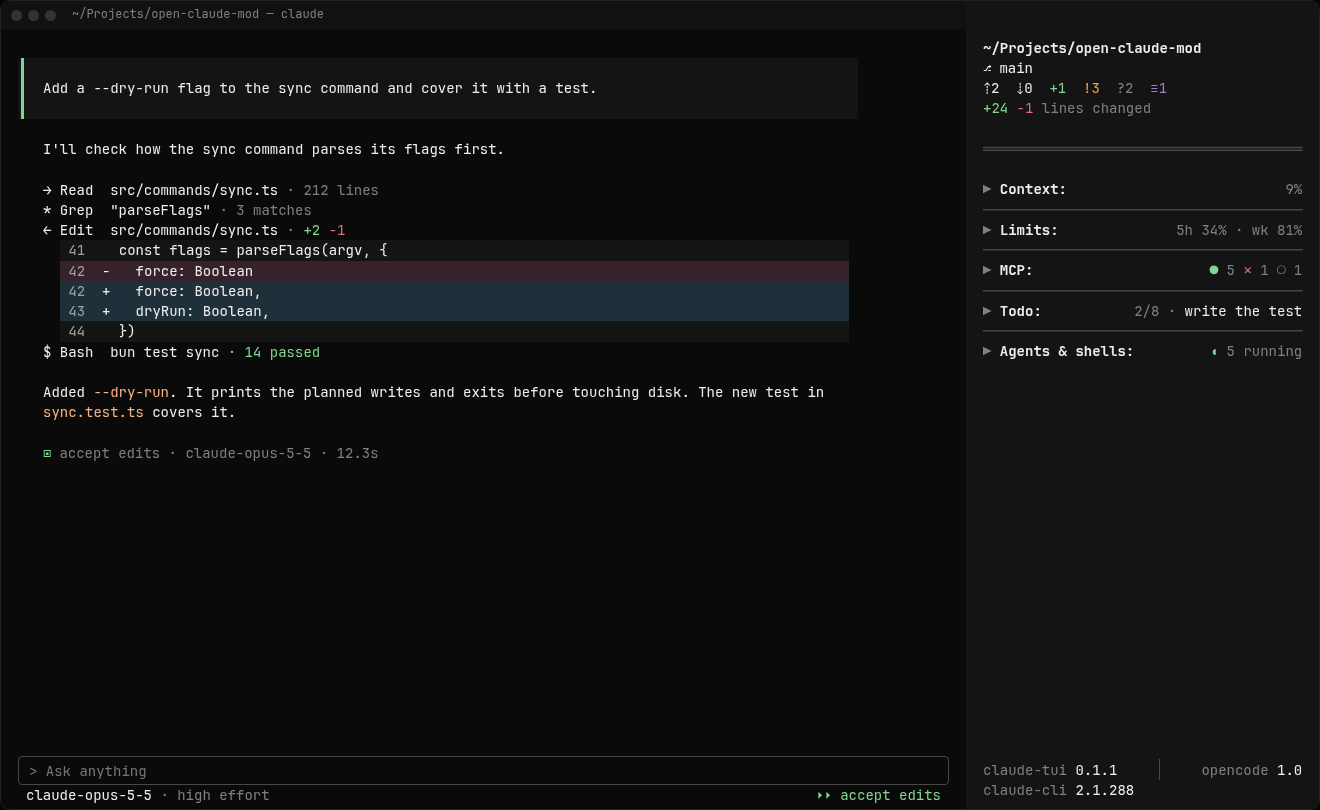
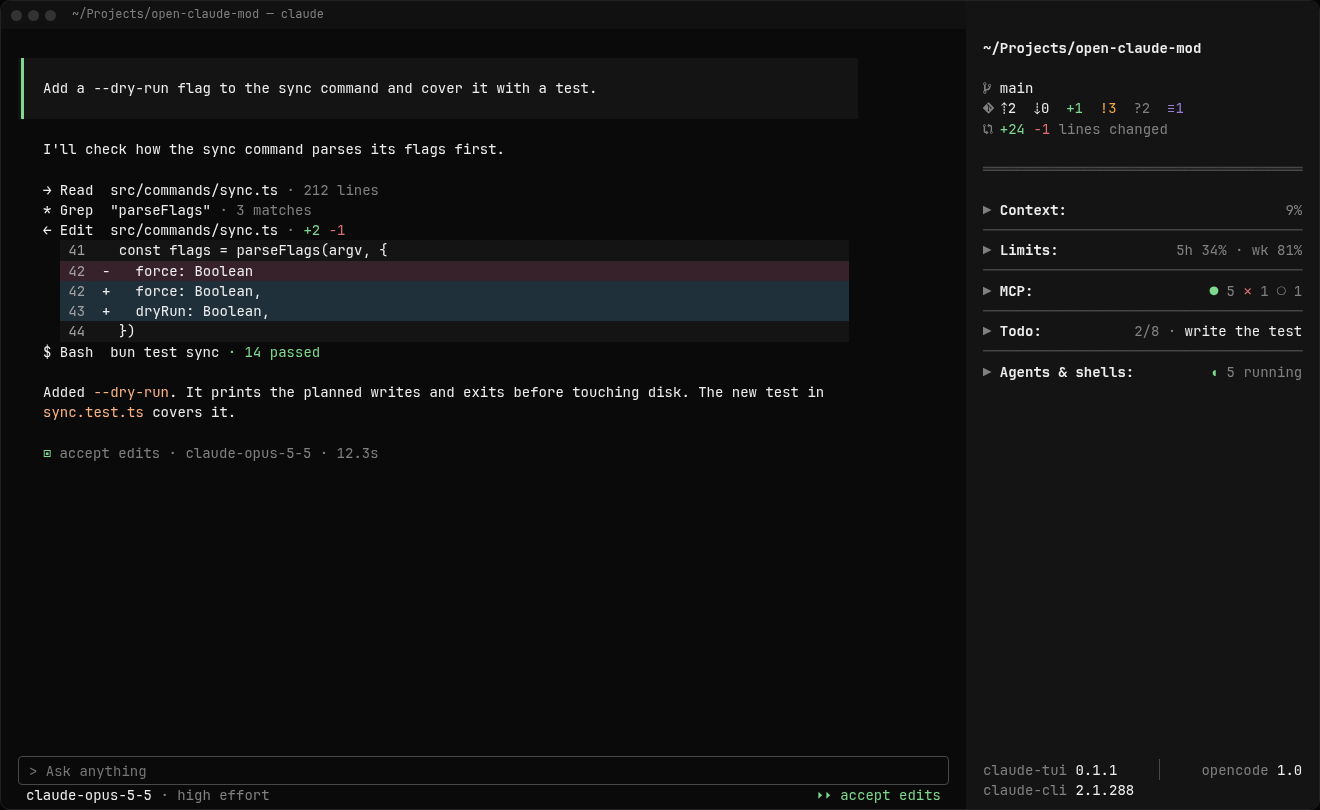
fix(sidebar): Devicons glyphs on the git header rows
Lead the git header's rows with Devicons glyphs in inactive and a space:
dev-git_branch (U+E725) replaces ⎇ on the branch row, dev-git (U+E702)
leads the changeset row and dev-git_compare (U+E728) the lines-changed
row. In a repo, 1 blank row parts the path from the git rows; outside a
repo the header stays the path alone.

Redraw docs/design/sidebar.html and its PNGs, and update MEMORY.md, the
header live checks and the inactive and subtle rows of the colour docs.

Refs: #136

Changed region(s): [[0.7455, 0.0617, 0.9939, 0.463]]

diff --git a/ctui/tests/sidebar.test.tsx b/ctui/tests/sidebar.test.tsx
@@ -8,12 +8,14 @@ import { colors } from '../plugins/colors'
 import type { SidebarData, SidebarPlugin } from '../plugins/plugin'
 import { clientsAsTrees } from './clients'
 
+// The branch row's Devicons glyph, `dev-git_branch` (#136).
+const BRANCH = '\ue725'
 const header: SidebarPlugin = {
   id: 'git',
   title: 'Git',
   slot: 'header',
   needs: [],
-  view: () => ['~/x', '⎇ main'],
+  view: () => ['~/x', `${BRANCH} main`],
 }
 const footer: SidebarPlugin = {
   id: 'versions',
@@ -116,7 +118,7 @@ test('header, sections and the footer on the last row', async ($, on) => {
   expect(tree).toMatchObject({ type: 'Box', props: { height: 30, paddingX: 2, paddingY: 1 } })
   expect(layout(tree)).toEqual([
     '~/x',
-    '⎇ main',
+    `${BRANCH} main`,
     B,
     D,
     B,
@@ -168,7 +170,7 @@ test('one section, expanded, has no rule', async ($, on) => {
 
 test('one section, folded, has no rule above or below it', async ($, on) => {
   const { tree } = await draw($, on, { folded: { mcp: true } })
-  expect(layout(tree)).toEqual(['~/x', '⎇ main', B, D, B, '▶\uFE0E mcp:sum 3', '', 'ctui 0.0.0', 'claude-cli 2.1.288'])
+  expect(layout(tree)).toEqual(['~/x', `${BRANCH} main`, B, D, B, '▶\uFE0E mcp:sum 3', '', 'ctui 0.0.0', 'claude-cli 2.1.288'])
 })
 
 // #135: the double rule shows only when the header and a section both show.
@@ -179,7 +181,21 @@ test('no double rule without a header', async ($, on) => {
 
 test('no double rule without sections', async ($, on) => {
   const { tree } = await draw($, on, { plugins: [header, footer] })
-  expect(layout(tree)).toEqual(['~/x', '⎇ main', '', 'ctui 0.0.0', 'claude-cli 2.1.288'])
+  expect(layout(tree)).toEqual(['~/x', `${BRANCH} main`, '', 'ctui 0.0.0', 'claude-cli 2.1.288'])
+})
+
+// #136: the real git header parts the path from the git rows by 1 blank row.
+const git = plugins.find((plugin) => plugin.id === 'git')!
+const REPO = { branch: 'main', staged: 0, modified: 0, untracked: 0, stashes: 0, added: 0, removed: 0 }
+
+test('in a repo, 1 blank row parts the path from the git rows', async ($, on) => {
+  const { tree } = await draw($, on, { plugins: [git, list('mcp', 1)], data: { git: { path: '~/x', repo: REPO } } })
+  expect(layout(tree).slice(0, 4)).toEqual(['~/x', '', `${BRANCH} main`, B])
+})
+
+test('outside a repo the header is the path alone, with no blank row', async ($, on) => {
+  const { tree } = await draw($, on, { plugins: [git, list('mcp', 1)], data: { git: { path: '~/x' } } })
+  expect(layout(tree).slice(0, 3)).toEqual(['~/x', B, D])
 })
 
 for (const [columns, cells] of [
@@ -256,7 +272,7 @@ test('scrolled to the end, only ↑ more shows', async ($, on) => {
 for (const scroll of [1, 99]) {
   test(`scrolled to ${scroll}, the header, its double rule and blank rows stay put`, async ($, on) => {
     const { tree } = await draw($, on, { plugins: [header, list('mcp', 4), footer], bodyRows: 14, scroll })
-    expect(layout(tree).slice(0, 6)).toEqual(['~/x', '⎇ main', B, D, B, '↑ more'])
+    expect(layout(tree).slice(0, 6)).toEqual(['~/x', `${BRANCH} main`, B, D, B, '↑ more'])
   })
 }
 
@@ -306,17 +322,18 @@ const BUSY: SidebarData = {
 const windowOf = (sizes: (string | number)[]) => sizes.slice(sizes.indexOf(D) + 2, sizes.lastIndexOf(''))
 const busy = ($: Engine, on: On, scroll: number) => draw($, on, { plugins, data: BUSY, bodyRows: 34, scroll })
 
-test("#85's busy data at 34 body rows: 37 section rows overflow 24 free rows", async ($, on) => {
+test("#85's busy data at 34 body rows: 37 section rows overflow 23 free rows", async ($, on) => {
   const top = await busy($, on, 0)
   const window = windowOf(layout(top.tree))
-  // `↓ more` leaves 23 rows, which hold Context, Limits and MCP (22 rows) but
+  // A 4-row header (path, blank row, branch, counts) leaves 23 free rows.
+  // `↓ more` leaves 22, which hold Context, Limits and MCP (22 rows) but
   // not Todo's blank row, rule, title and spacer (4 more).
   expect(window.slice(-4)).toEqual(['● server 23 tools', '● server 33 tools', '▸ 3 more', '↓ more'])
   expect(height(window)).toBe(23)
   expect(window.filter((size) => size === B)).toHaveLength(5)
   expect(window.filter((size) => size === R)).toHaveLength(2)
   // One stop per row: from MCP's first row (stop 10) the rest, 20 rows, fits
-  // the 23 under `↑ more`; from MCP's title stop (4 rows) before it is 24.
+  // the 22 under `↑ more`; from MCP's title stop (4 rows) before it is 24.
   expect(top.maxScroll).toBe(10)
 })
 

diff --git a/ctui/tests/sidebar-dock.test.tsx b/ctui/tests/sidebar-dock.test.tsx
@@ -266,6 +266,9 @@ function host(on: On, git: { runs: string[][]; status: string; exitCode?: number
   })
 }
 
+// The branch row's Devicons glyph, `dev-git_branch` (#136).
+const BRANCH = '\ue725'
+
 const statusRuns = (runs: string[][]) => runs.filter((argv) => argv.includes('status')).length
 
 test('git refreshes at session start, every 5 s and after a file-changing tool', async ($, on) => {
@@ -279,7 +282,7 @@ test('git refreshes at session start, every 5 s and after a file-changing tool',
 
   const pane = await $.ui.mount({ ...PANE, props: paneProps('dock') })
   expect(await pane.find({ text: '~/Projects/x' })).toBeDefined()
-  expect(await pane.find({ text: '⎇ main' })).toBeDefined()
+  expect(await pane.find({ text: `${BRANCH} main` })).toBeDefined()
   expect(await pane.find({ text: 'ctui 0.0.0' })).toBeDefined()
   expect(await pane.find({ text: 'claude-cli 2.1.288' })).toBeDefined()
 
@@ -296,7 +299,7 @@ test('git refreshes at session start, every 5 s and after a file-changing tool',
   await clock.settle()
   expect(statusRuns(git.runs)).toBe(3)
   await pane.redraw()
-  expect(await pane.find({ text: '⎇ next' })).toBeDefined()
+  expect(await pane.find({ text: `${BRANCH} next` })).toBeDefined()
 })
 
 test('outside a repo the header is the path alone', async ($, on) => {
@@ -306,7 +309,27 @@ test('outside a repo the header is the path alone', async ($, on) => {
   await clock.settle()
   const pane = await $.ui.mount({ ...PANE, props: paneProps('dock') })
   expect(await pane.find({ text: '~/Projects/x' })).toBeDefined()
-  expect(await pane.find({ text: /⎇/ })).toBeUndefined()
+  expect(await pane.find({ text: /[\ue725\ue702\ue728]/ })).toBeUndefined()
+})
+
+test('on a detached HEAD the branch row shows the glyph and the short sha', async ($, on) => {
+  const clock = mock.clock(on)
+  const status = '# branch.oid 63568e2e396d887fc74b6f1d1f21f4c539c12044\n# branch.head (detached)'
+  host(on, { runs: [], status })
+  await $.session.start({ cwd: '/home/a/Projects/x', surface: 'terminal', isInteractive: true })
+  await clock.settle()
+  const pane = await $.ui.mount({ ...PANE, props: paneProps('dock') })
+  expect(await pane.find({ text: `${BRANCH} 63568e2` })).toBeDefined()
+})
+
+test('a clean repo with no upstream shows the branch row alone, with no lone glyph', async ($, on) => {
+  const clock = mock.clock(on)
+  host(on, { runs: [], status: '# branch.oid c1e879e48fada468970e942e80559adfe77c8713\n# branch.head main' })
+  await $.session.start({ cwd: '/home/a/Projects/x', surface: 'terminal', isInteractive: true })
+  await clock.settle()
+  const pane = await $.ui.mount({ ...PANE, props: paneProps('dock') })
+  expect(await pane.find({ text: `${BRANCH} main` })).toBeDefined()
+  expect(await pane.find({ text: /[\ue702\ue728]/ })).toBeUndefined()
 })
 
 test('a file change while git runs refreshes once that run ends', async ($, on) => {

diff --git a/ctui/plugins/git/index.tsx b/ctui/plugins/git/index.tsx
@@ -1,6 +1,14 @@
+import type { RenderNode } from 'claude-code'
+
 import type { SidebarPlugin } from '../plugin'
 
-// The Sidebar header: path, branch, ahead/behind and file-status counts, lines changed.
+// The Devicons glyphs leading the git rows (#132), from the person's Nerd Font.
+const BRANCH = '\ue725' // dev-git_branch
+const CHANGESET = '\ue702' // dev-git
+const LINES = '\ue728' // dev-git_compare
+
+// The Sidebar header: path; in a repo a blank row, then branch, ahead/behind
+// and file-status counts, lines changed, each led by its glyph.
 const plugin: SidebarPlugin = {
   id: 'git',
   title: 'Git',
@@ -8,16 +16,20 @@ const plugin: SidebarPlugin = {
   needs: ['git'],
   view: ({ git }, { Text }, _cfg, _width, c) => {
     if (!git) return []
-    const rows = [
+    const rows: RenderNode[] = [
       <Text bold color={c.main} wrap="truncate-start">
         {git.path}
       </Text>,
     ]
     const repo = git.repo
     if (!repo) return rows
+    // A glyph in muted and a space: glyphs in column 0, text in column 2.
+    const lead = (glyph: string) => [<Text color={c.muted}>{glyph}</Text>, ' ']
     rows.push(
+      '',
       <Text color={c.main} wrap="truncate-end">
-        <Text color={c.muted}>⎇</Text> {repo.branch}
+        {lead(BRANCH)}
+        {repo.branch}
       </Text>,
     )
     const counts = [
@@ -29,10 +41,18 @@ const plugin: SidebarPlugin = {
       ...(repo.untracked ? [<Text color={c.muted}>?{repo.untracked}</Text>] : []),
       ...(repo.stashes ? [<Text color={c.accent}>≡{repo.stashes}</Text>] : []),
     ]
-    if (counts.length) rows.push(<Text>{counts.flatMap((count, i) => (i ? ['  ', count] : [count]))}</Text>)
+    if (counts.length) {
+      rows.push(
+        <Text>
+          {lead(CHANGESET)}
+          {counts.flatMap((count, i) => (i ? ['  ', count] : [count]))}
+        </Text>,
+      )
+    }
     if (repo.added || repo.removed) {
       rows.push(
         <Text>
+          {lead(LINES)}
           <Text color={c.success}>+{repo.added}</Text> <Text color={c.error}>-{repo.removed}</Text>{' '}
           <Text color={c.muted}>lines changed</Text>
         </Text>,

diff --git a/docs/design/sidebar.html b/docs/design/sidebar.html
@@ -15,7 +15,9 @@
   whole rows, as Claude Code lays it out: a faint `─` rule across the body
   between every two sections, 1 row under an expanded title and 1 row after an
   expanded section before the rule, none after a folded one. A faint `═` rule
-  with 1 blank row on each side parts the git header from the sections.
+  with 1 blank row on each side parts the git header from the sections. In
+  the header, 1 blank row parts the path from the git rows, each led by its
+  Devicons glyph in muted: U+E725 branch, U+E702 changeset, U+E728 lines.
 -->
 <html lang="en">
 <head>
@@ -190,8 +192,8 @@
   // The `─` rule between two sections, across the body's 38 columns.
   const RULE = row(span('f', '─'.repeat(38)))
   // The sections window's rows above `↓ more`: 37 body rows less the header
-  // (4), the double rule's 3, `↓ more`, the footer's gap and the footer (2).
-  const ROOM = 37 - 4 - 3 - 1 - 1 - 2
+  // (5), the double rule's 3, `↓ more`, the footer's gap and the footer (2).
+  const ROOM = 37 - 5 - 3 - 1 - 1 - 2
 
   // The sections as scroll stops, as `sidebar()` builds them: a title's stop
   // holds the blank row and rule before it and its own blank row. With
@@ -258,9 +260,10 @@
         <div class="mode split row"><span>claude-opus-5-5 ${span('m', '· high effort')}</span>${span('g', '⏵⏵ accept edits')}</div>
         <div class="sidebar"><div class="body">
           ${row('<b>~/Projects/open-claude-mod</b>')}
-          ${row('⎇ main')}
-          ${row(`⇡2  ⇣0  ${span('g', '+1')}  ${span('o', '!3')}  ${span('m', '?2')}  ${span('v', '≡1')}`)}
-          ${row(`${span('g', '+24')} ${span('r', '-1')} ${span('m', 'lines changed')}`)}
+          ${row('')}
+          ${row(`${span('m', '\ue725')} main`)}
+          ${row(`${span('m', '\ue702')} ⇡2  ⇣0  ${span('g', '+1')}  ${span('o', '!3')}  ${span('m', '?2')}  ${span('v', '≡1')}`)}
+          ${row(`${span('m', '\ue728')} ${span('g', '+24')} ${span('r', '-1')} ${span('m', 'lines changed')}`)}
           ${row('')}
           ${row(span('f', '═'.repeat(38)))}
           ${row('')}

diff --git a/ctui/tests/roles.test.tsx b/ctui/tests/roles.test.tsx
@@ -123,9 +123,12 @@ test('main text draws with the text key: path, branch, titles, labels, percents,
   expect(colorOf(all, 'Run the tests')).toEqual(['text'])
 })
 
-test('the git header: ⎇ muted, counts in their roles, lines changed muted', async ($, on) => {
+// #136: the Devicons glyphs leading the git rows: branch, changeset, lines changed.
+const GLYPHS = ['\ue725', '\ue702', '\ue728']
+
+test('the git header: glyphs muted, counts in their roles, lines changed muted', async ($, on) => {
   const { runs: all } = await draw($, on)
-  expect(colorOf(all, '⎇')).toEqual(['inactive'])
+  expect(GLYPHS.map((glyph) => colorOf(all, glyph))).toEqual([['inactive'], ['inactive'], ['inactive']])
   expect(colorOf(all, 'develop')).toEqual(['text'])
   expect(['↑1', '↓0', '+2', '!3', '?1', '≡1', '+12', '-4', 'lines changed'].map((t) => colorOf(all, t)[0])).toEqual([
     'text',
@@ -190,7 +193,7 @@ test("a Theme's overrides reach every role", async ($, on) => {
   const theme: Colors = colors({ text: '#d3c6aa', inactive: '#918c7e', subtle: '#475258' })
   const { runs: all } = await draw($, on, { colors: theme })
   expect(colorOf(all, 'Context:')).toEqual(['#d3c6aa'])
-  expect(colorOf(all, '⎇')).toEqual(['#918c7e'])
+  expect(GLYPHS.map((glyph) => colorOf(all, glyph))).toEqual([['#918c7e'], ['#918c7e'], ['#918c7e']])
   expect(colorOf(all, '│')).toEqual(['#475258'])
   expect(colorOf(all, '═'.repeat(38))).toEqual(['#475258'])
   expect(colorOf(all, '▼')).toEqual(Array(5).fill('#918c7e'))

diff --git a/MEMORY.md b/MEMORY.md
@@ -59,9 +59,9 @@ Reason: `claude plugin validate` rejects dynamic `import()`, non-literal event n
 
 Applies when: drawing the Sidebar pane, sizing it, or handling its scroll and fold state.
 
-Guidance: The dock sits beside the transcript and stops above the prompt rows. Claude Code draws its `│` rule (dim, in the theme's `inactive`), a row above the body with the `✕` at its right end, and one row below the body, all on `composerSidebarBackground`; no prop or mod drawing changes them. Draw the body with padding top/bottom 1, left/right 2 and a root Box `height` of `scroll.bodyRows`, read each render: `git` header, sections window, flexible space, `versions` footer on the last row. Request `columns` 42 below 160 terminal columns and 53 from 160. A width the person dragged or keyed the dock to (`dockColumns` in `~/.claude.json`) wins over the request. Terminal width is `e.viewport.columns + bodyColumns + 1` (`viewport.columns` is the transcript's width); on a change, re-call `$.ui.open({ id, columns })` from `$.clock.after(0, …)`, never from the render itself. A click anywhere on a section's title row, arrow, title, blank middle or count, folds or unfolds it. Part every two sections with a `─` rule in `faint` (`subtle`), exactly the body width (`bodyColumns - 4`: 38 at 42, 49 at 53); none above the first section or below the last. Space the sections with empty Box spacers in whole rows: `height` 1 under an expanded title and 1 after an expanded section before the rule; a folded title is followed directly by the rule. Where the header and at least one section show, a blank row, a `═` rule in `faint` (`subtle`) the body width and a blank row part them: 3 fixed rows with the header, outside the sections window, and the window's free rows subtract them. The footer's gap and the padding take whole rows too. Cap each long list at 4 rows plus `▸ N more` / `▾ show less`. In a row with a value at the right, give the row `columnGap: 1` and wrap the value in a `Box` with `flexShrink: 0`: only the label truncates. Scroll the sections yourself: slice rows to the free height (each row `height 1`, `flexShrink 0`; `overflow:"hidden"` shrinks rows instead of clipping), one scroll stop per body row, a title's stop holding [the blank row after an expanded section] + the rule + the title + [its blank row when expanded], the same height at every position, with `scrollWindow()` summing the stops' heights in whole rows. A stop shows only whole, so a title at the top keeps its blank row and rule under `↑ more` and the window never ends on a rule; draw `↑ more` / `↓ more`, and answer `ui.scroll` for the pane with `{}` without `next`. Keep folds, expanded lists and the offset in `$.state`; a new session starts from `<id>_folded`.
+Guidance: The dock sits beside the transcript and stops above the prompt rows. Claude Code draws its `│` rule (dim, in the theme's `inactive`), a row above the body with the `✕` at its right end, and one row below the body, all on `composerSidebarBackground`; no prop or mod drawing changes them. Draw the body with padding top/bottom 1, left/right 2 and a root Box `height` of `scroll.bodyRows`, read each render: `git` header, sections window, flexible space, `versions` footer on the last row. The header is the path; in a repo, 1 blank row and then the git rows, each led by a Devicons glyph in `muted` (`inactive`) and a space: `U+E725` branch, `U+E702` changeset, `U+E728` lines changed. A row with nothing to show is left out with its glyph. Request `columns` 42 below 160 terminal columns and 53 from 160. A width the person dragged or keyed the dock to (`dockColumns` in `~/.claude.json`) wins over the request. Terminal width is `e.viewport.columns + bodyColumns + 1` (`viewport.columns` is the transcript's width); on a change, re-call `$.ui.open({ id, columns })` from `$.clock.after(0, …)`, never from the render itself. A click anywhere on a section's title row, arrow, title, blank middle or count, folds or unfolds it. Part every two sections with a `─` rule in `faint` (`subtle`), exactly the body width (`bodyColumns - 4`: 38 at 42, 49 at 53); none above the first section or below the last. Space the sections with empty Box spacers in whole rows: `height` 1 under an expanded title and 1 after an expanded section before the rule; a folded title is followed directly by the rule. Where the header and at least one section show, a blank row, a `═` rule in `faint` (`subtle`) the body width and a blank row part them: 3 fixed rows with the header, outside the sections window, and the window's free rows subtract them. The footer's gap and the padding take whole rows too. Cap each long list at 4 rows plus `▸ N more` / `▾ show less`. In a row with a value at the right, give the row `columnGap: 1` and wrap the value in a `Box` with `flexShrink: 0`: only the label truncates. Scroll the sections yourself: slice rows to the free height (each row `height 1`, `flexShrink 0`; `overflow:"hidden"` shrinks rows instead of clipping), one scroll stop per body row, a title's stop holding [the blank row after an expanded section] + the rule + the title + [its blank row when expanded], the same height at every position, with `scrollWindow()` summing the stops' heights in whole rows. A stop shows only whole, so a title at the top keeps its blank row and rule under `↑ more` and the window never ends on a rule; draw `↑ more` / `↓ more`, and answer `ui.scroll` for the pane with `{}` without `next`. Keep folds, expanded lists and the offset in `$.state`; a new session starts from `<id>_folded`.
 
-Reason: #8 verified the chrome, the viewport width and the overflow shrink live on 2.1.288. The `✕` moved from the body's top-right cell to its own row on 2.1.291 (#79). #87 rechecked the chrome, the 42/53 widths (150 and 170 columns) and `bodyRows` (34 in a 40-row terminal) live on 2.1.292. The human chose to accept the chrome, opencode's padding, the 42/53 width, render 2's caps, and the mod-owned scroll after trying it live. Claude Code cuts every laid-out box down to whole cells (`top|0`, `height|0`, checked on 2.1.292), so a fractional spacer draws 0 or 1–2 rows and the rows after it shift; the Sidebar's `Box` spacing comes in whole rows. Spacing is drawn as empty Boxes of whole-row height rather than a transparent `Image`, which needs a graphics protocol and tmux passthrough (#120). The human chose the rules and spacing from the renders in #127, and the rule riding the next title's scroll stop in #130, so a wheel step always moves one row of text. The `═` header block was chosen in #129 and kept out of the scroll window in #130.
+Reason: #8 verified the chrome, the viewport width and the overflow shrink live on 2.1.288. The `✕` moved from the body's top-right cell to its own row on 2.1.291 (#79). #87 rechecked the chrome, the 42/53 widths (150 and 170 columns) and `bodyRows` (34 in a 40-row terminal) live on 2.1.292. The human chose to accept the chrome, opencode's padding, the 42/53 width, render 2's caps, and the mod-owned scroll after trying it live. Claude Code cuts every laid-out box down to whole cells (`top|0`, `height|0`, checked on 2.1.292), so a fractional spacer draws 0 or 1–2 rows and the rows after it shift; the Sidebar's `Box` spacing comes in whole rows. Spacing is drawn as empty Boxes of whole-row height rather than a transparent `Image`, which needs a graphics protocol and tmux passthrough (#120). The human chose the rules and spacing from the renders in #127, and the rule riding the next title's scroll stop in #130, so a wheel step always moves one row of text. The `═` header block was chosen in #129 and kept out of the scroll window in #130. The header glyphs were chosen in #132: the old branch mark fell back to another font and drew small.
 
 ## The Sidebar shows only when docked, and the person can't close it
 

diff --git a/docs/testing/live-checks.md b/docs/testing/live-checks.md
@@ -28,10 +28,10 @@ Fullscreen means the `"tui": "fullscreen"` setting or `CLAUDE_CODE_NO_FLICKER=1`
 
 | Setup | Action | Expected |
 |---|---|---|
-| Fullscreen, Sidebar docked, in a repo under the home directory with an upstream, one staged, one modified and one untracked file, one stash | Look at the header | Row 1: the path in bold `text`, with `~` for home. Row 2: `⎇` in `inactive`, then the branch in `text`. Row 3: `↑<ahead> ↓<behind>` in `text`, `+1` in `success`, `!1` in `warning`, `?1` in `inactive`, `≡1` in `suggestion`. Row 4: `+<added>` in `success`, `-<removed>` in `error`, then `lines changed` in `inactive`. Colors are theme keys of the current `/theme`. |
+| Fullscreen, Sidebar docked, in a repo under the home directory with an upstream, one staged, one modified and one untracked file, one stash | Look at the header | Row 1: the path in bold `text`, with `~` for home. Row 2 is blank. Each git row leads with a Devicons glyph in `inactive` drawn full size in the Nerd Font, then a space, so glyphs line up in column 0 and text in column 2. Row 3: the `dev-git_branch` glyph (`U+E725`), then the branch in `text`. Row 4: the `dev-git` glyph (`U+E702`), then `↑<ahead> ↓<behind>` in `text`, `+1` in `success`, `!1` in `warning`, `?1` in `inactive`, `≡1` in `suggestion`. Row 5: the `dev-git_compare` glyph (`U+E728`), then `+<added>` in `success`, `-<removed>` in `error`, then `lines changed` in `inactive`. Colors are theme keys of the current `/theme`. |
 | The previous row | Ask Claude to edit a file; separately, change a file from another terminal | The counts and lines change right after the Edit returns, and within 5 s for the outside change. |
-| Detached HEAD (`git checkout --detach`) | Wait 5 s | Row 2 reads `⎇ <7-char sha>`. |
-| A directory outside any repo | Start a session there | The header is the path alone. |
+| Detached HEAD (`git checkout --detach`) | Wait 5 s | Row 3 reads the `dev-git_branch` glyph and `<7-char sha>`. |
+| A directory outside any repo | Start a session there | The header is the path alone, with no glyph and no blank row under it before the `═` rule's own blank row. |
 | Sidebar docked | Look at the body and its frame | Padding: 1 row above and below, 2 columns left and right. Claude Code draws the `│` rule, the `✕` and the row under the body. The footer is one row on the body's last row: `ctui <plugin.json version> │ claude-cli <pinned version>`, names in `inactive`, versions in `text`, the `│` in `subtle`, with no update icon. It fits at 42 and at 53 columns. Each expanded section header reads `▼` in `inactive`, then its title and a `:` in bold `text`. A folded header's `▶` draws as a text triangle one cell wide, not an emoji, in Alacritty and in Ghostty. |
 | Sidebar docked, every section expanded, at 42 columns and again at 53 (160+ terminal columns) | Look at the sections at rest; fold MCP and Agents & shells; then expand them and scroll the sections down and back | At rest: a `─` rule in `subtle` across the whole body width between every two sections, none above the first or below the last. 1 row of space under each expanded section title before its first row, and 1 row after each expanded section before the rule. A folded title has no space under it, and the rule follows directly. Between the git header and the first section: 1 blank row, a `═` rule in `subtle` across the whole body width, 1 blank row. While scrolled, a title at the window's top keeps its blank row and rule under `↑ more`, the window never ends on a rule or the blank row before it, `↑ more` / `↓ more` stay one row each, and the header, its blank rows and `═` rule, the footer and the padding don't move. |
 | Sidebar docked, `inherit`, a custom theme in `~/.claude/themes/` picked in `/theme` | Change that file's `text`, `inactive` and `subtle` to new colors and save it (or switch Omarchy themes, which rewrites `~/.claude/themes/omarchy.json`); then pick the built-in `dark` theme in `/theme`, then `light` | Within a second each time, every Sidebar row recolors, the main text included: path, branch, section titles and versions follow `text`. No row keeps the terminal's own foreground. |

diff --git a/docs/configuration.md b/docs/configuration.md
@@ -57,8 +57,8 @@ ctui draws with Claude Code's theme colors, so it follows the theme you pick in 
 | `warning` | Git `!modified`, a bar's fill from 60% to 85%, MCP `!` and `◐`, the in-progress task `◐`, a running agent or shell `◐`, an interrupted tool row. |
 | `error` | Git `-removed` lines, a bar's fill from 85%, MCP `✕`, a failed agent or shell `✗`, a failed tool row. |
 | `suggestion` | Git `≡stashes`. |
-| `inactive` | The `⎇`, Git `?untracked` and "lines changed", the fold arrows, section counts and folded summaries, tokens, cost and reset times, MCP `N tools` and `off`, done tasks and pending task text, agent details and elapsed times, `▸ N more` and `↑ more`/`↓ more`, the versions labels. |
-| `subtle` | The empty `─` part of each bar, MCP `○`, the pending task `○`, the `│` in the versions footer. |
+| `inactive` | The Git glyphs leading the branch, changeset and lines-changed rows, Git `?untracked` and "lines changed", the fold arrows, section counts and folded summaries, tokens, cost and reset times, MCP `N tools` and `off`, done tasks and pending task text, agent details and elapsed times, `▸ N more` and `↑ more`/`↓ more`, the versions labels. |
+| `subtle` | The `─` rules between Sidebar sections and the `═` rule under the git header, the empty `─` part of each bar, MCP `○`, the pending task `○`, the `│` in the versions footer. |
 | `promptBorder` | The `┃` bar beside your prompts in the transcript. Claude Code also colors the prompt's `─` rules with it. |
 | `userMessageBackground` | The panel behind your prompts in the transcript. |
 | `composerSidebarBackground` | The Sidebar's background. Claude Code paints the dock with it, and only a theme picked in `/theme` sets it. |
